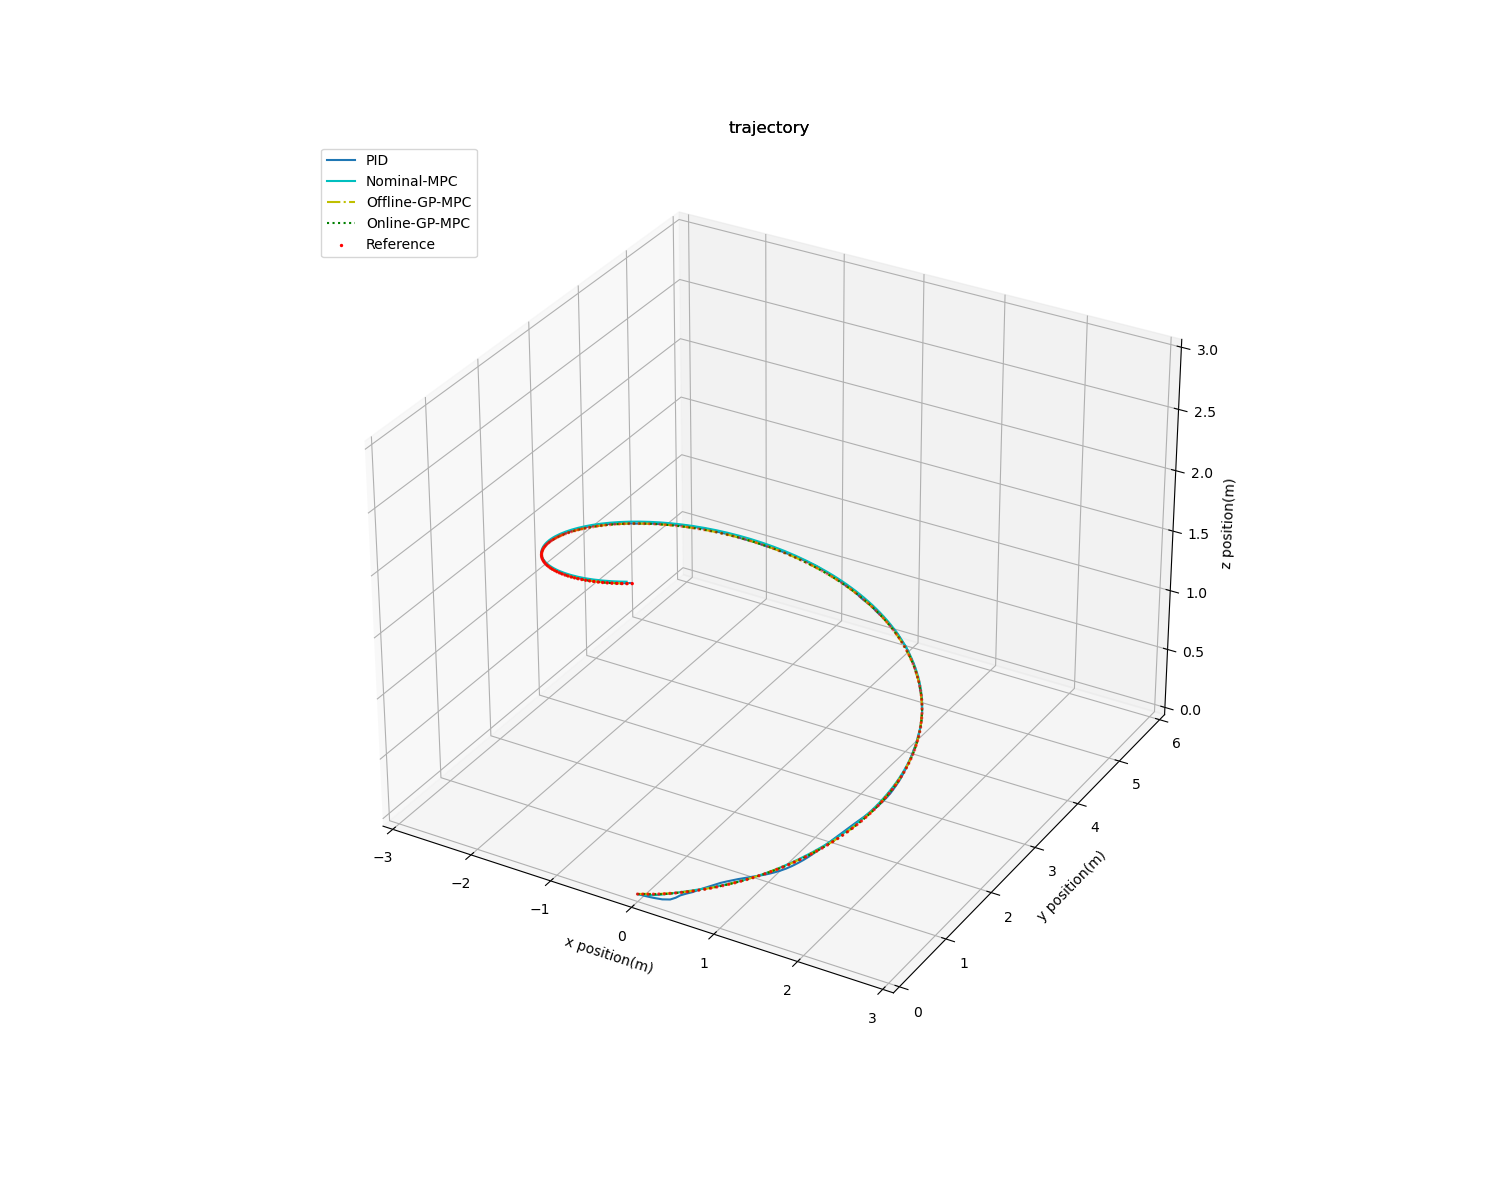
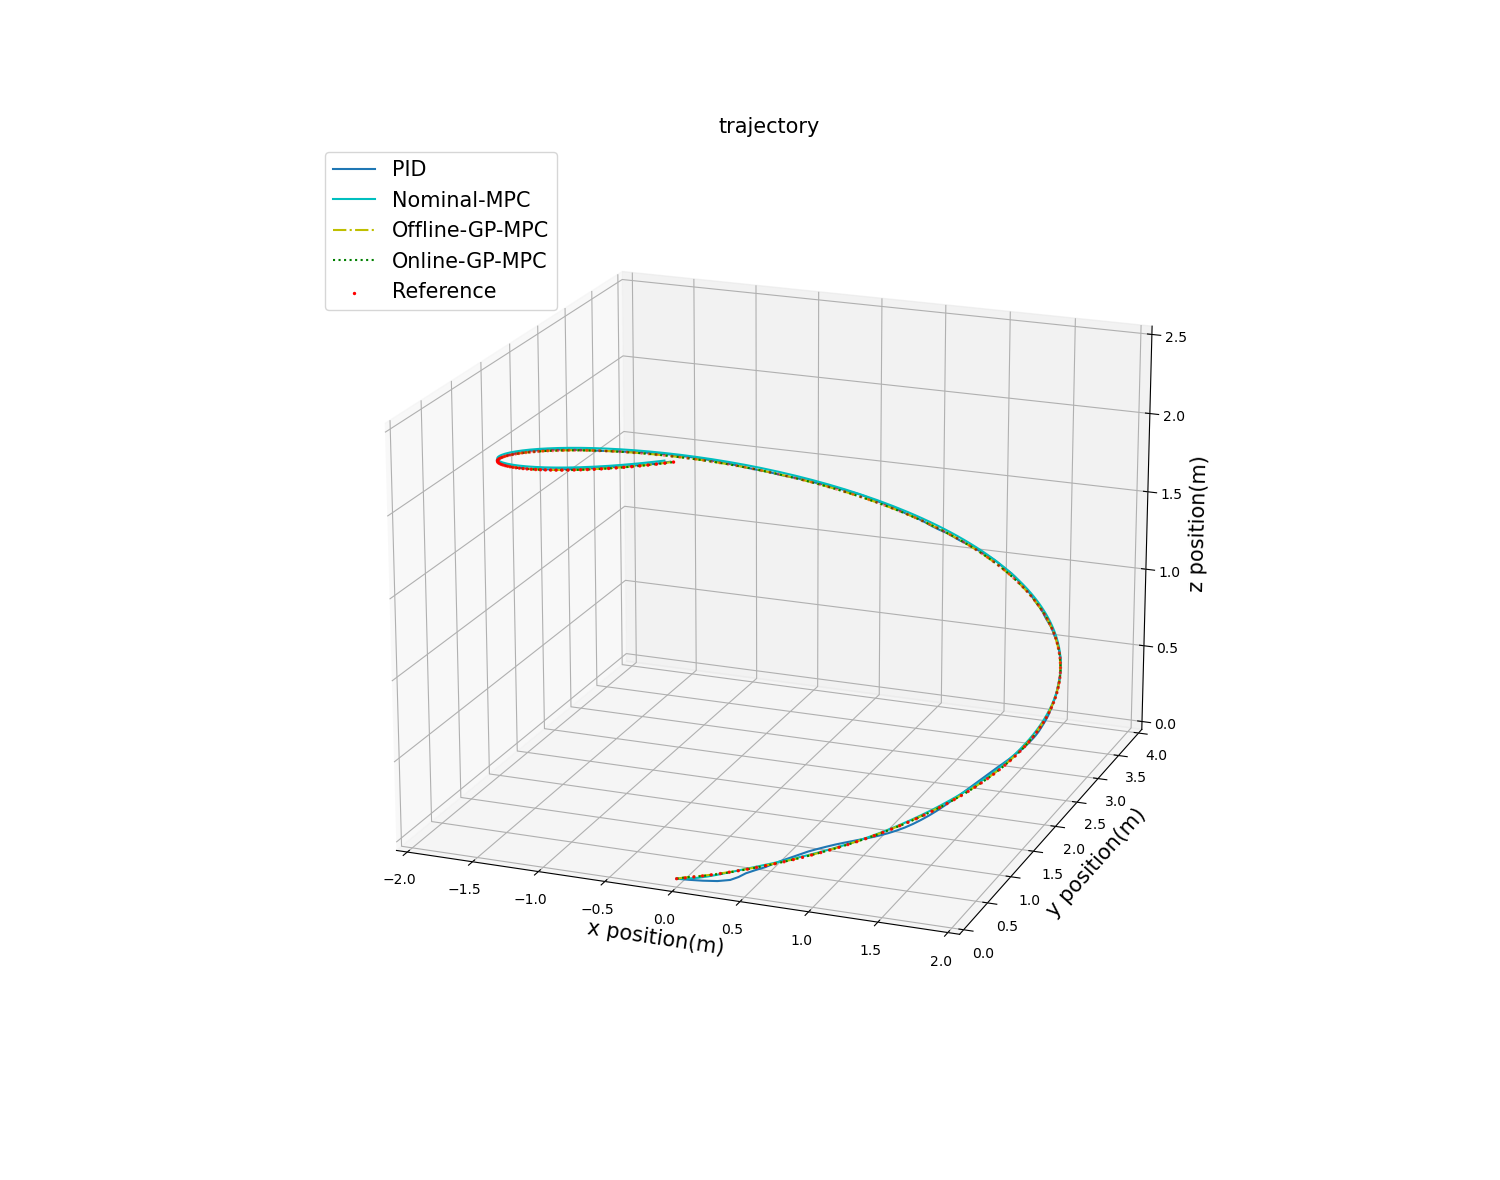
7.21

diff --git a/examples/figure_test_3.py b/examples/figure_test_3.py
@@ -4,13 +4,13 @@ import numpy as np
 # 导入数据
 # 拷贝用：data/lemniscate/Tv_dis_with_ero/   data/lemniscate/Tv_dis_No_ero/  data/lemniscate/No_dis_No_ero  data/lemniscate/Con_dis_No_ero  
 # data/L  data/circle/r=2/  data/circle/r=2.5/  data/circle/r=3/
-input_file = 'data/lemniscate/Tv_dis_with_ero/'
+input_file = 'data/circle/r=2/'
 all_data_PID = io.loadmat(input_file + 'PID.mat')
 all_data_Nominal = io.loadmat(input_file + 'Nominal.mat')
 all_data_OFF = io.loadmat(input_file + 'Offline-GP.mat')
 all_data_ON = io.loadmat(input_file + 'Online-GP.mat')
 
-input_file_2 = 'data/height/Tv_error/'
+input_file_2 = 'data/height/No_dis/0.25/'
 Z_data_PID = io.loadmat(input_file_2 + 'PID.mat')
 Z_data_Nominal = io.loadmat(input_file_2 + 'Nominal.mat')
 Z_data_OFF = io.loadmat(input_file_2 + 'Offline-GP.mat')
@@ -39,10 +39,9 @@ rmse_ON = all_data_ON['rmse']
 # print(u_PID[: , 0, 0])
 plt.figure('fig1', figsize=(15,15))
 plt.axis('off')
-plt.title("trajectory")
 # 参考轨迹
 # plt.plot(real_PID[:, 0], real_PID[:, 1], linestyle = '-', c='r', label = 'ref')
-
+fontsize = 15
 # 真实轨迹
 ax = plt.axes(projection='3d')
 ax.plot3D(real_PID[:, 0], real_PID[:, 1], realZ_PID[:, 0], linestyle = '-', label='PID')
@@ -50,12 +49,13 @@ ax.plot3D(real_Nominal[:, 0], real_Nominal[:, 1], realZ_Nominal[:, 0], c='c', li
 ax.plot3D(real_OFF[:, 0], real_OFF[:, 1], realZ_OFF[:, 0], c='y', linestyle = '-.', label = 'Offline-GP-MPC')
 ax.plot3D(real_ON[:, 0], real_ON[:, 1], realZ_ON[:, 0], c='g', linestyle = ':', label = 'Online-GP-MPC')
 ax.scatter3D(state_all_ref[:, 0], state_all_ref[:, 1], Z_ref[:, 0],s= 2, c='r', label = 'Reference')
-ax.set(xlim=[-2, 2], ylim=[-1.0, 1.0], zlim=[0, 5])
-ax.set_xlabel("x position(m)")
-ax.set_ylabel("y position(m)")
-ax.set_zlabel("z position(m)")
-ax.set_title("trajectory")
-plt.legend(loc='upper left')#绘制曲线图例，信息来自类型label
+ax.set(xlim=[-2, 2], ylim=[0, 4], zlim=[0, 2.5])
+ax.set_xlabel("x position(m)", fontsize=fontsize)
+ax.set_ylabel("y position(m)", fontsize=fontsize)
+ax.set_zlabel("z position(m)", fontsize=fontsize)
+ax.set_title("trajectory", fontsize=fontsize)
+ax.view_init(elev=19, azim=-69)
+plt.legend(loc='upper left', fontsize=fontsize)#绘制曲线图例，信息来自类型label
 # plt.zlabel("z position(m)")
 # plt.plot(real_PID[:, 0], real_PID[:, 1], linestyle = '-', label='PID')
 # plt.plot(real_Nominal[:, 0], real_Nominal[:, 1], c='c', linestyle = '-', label='Nominal-MPC')
@@ -69,32 +69,34 @@ plt.legend(loc='upper left')#绘制曲线图例，信息来自类型label
 # plt.scatter(state_all_ref[:, 0], state_all_ref[:, 1], 'r--')
 # 各状态对比
 y_label = ['x error(m)', 'y error(m)', 'yaw error(rad)']
-fig, ax = plt.subplots(4, 1, figsize=(18, 10)) 
+fig, ax = plt.subplots(4, 1, figsize=(25, 10)) 
 for i in range(3):
     plt.subplot(4, 1, i + 1)
     plt.xlim(0, 10.)
-    plt.xticks(np.arange(0., 10.1, 0.5))
-    plt.xlabel("time (s)")
-    plt.ylabel(y_label[i])
+    plt.xticks(np.arange(0., 10.1, 0.5), fontsize=fontsize)
+    plt.yticks(fontsize=fontsize)
+    plt.xlabel("time (s)", fontsize=fontsize)
+    plt.ylabel(y_label[i], fontsize=fontsize)
     # plt.plot(t[0], state_all_ref[:, i],linestyle = ':', c='r', label = 'ref')
-    plt.plot(t[0], real_PID[:, i] - state_all_ref[:, i], linestyle = ':', c='b', label='PID')
+    plt.plot(t[0], real_PID[:, i] - state_all_ref[:, i], linestyle = '-', c='k', label='PID')
     plt.plot(t[0], real_Nominal[:, i] - state_all_ref[:, i], linestyle = '--', c='c', label='Nominal-MPC')
     plt.plot(t[0], real_OFF[:, i]-  state_all_ref[:, i], c='r', linestyle = '-.', label='Offline-GP-MPC')
-    plt.plot(t[0], real_ON[:, i] - state_all_ref[:, i], c='k', linestyle = '-', label='Online-GP-MPC')
+    plt.plot(t[0], real_ON[:, i] - state_all_ref[:, i], c='b', linestyle = ':', label='Online-GP-MPC')
     # plt.legend(loc='upper left')#绘制曲线图例，信息来自类型label
 
 plt.subplot(4, 1, 4)
 i = 0
-plt.xlabel("time (s)")
-plt.ylabel('z error(m)')
+plt.xlabel("time (s)", fontsize=fontsize)
+plt.ylabel('z error(m)', fontsize=fontsize)
 plt.xlim(0, 10)
-plt.xticks(np.arange(0., 10.1, 0.5))
-plt.plot(t[0], realZ_PID[:, i] - Z_ref[:, i], linestyle = ':', c='b', label='PID')
+plt.xticks(np.arange(0., 10.1, 0.5), fontsize=fontsize)
+plt.yticks(fontsize=fontsize)
+plt.plot(t[0], realZ_PID[:, i] - Z_ref[:, i], linestyle = '-', c='k', label='PID')
 plt.plot(t[0], realZ_Nominal[:, i] - Z_ref[:, i], linestyle = '--', c='c', label='Nominal-MPC')
 plt.plot(t[0], realZ_OFF[:, i]-  Z_ref[:, i], c='r', linestyle = '-.', label='Offline-GP-MPC')
-plt.plot(t[0], realZ_ON[:, i] - Z_ref[:, i], c='k', linestyle = '-', label='Online-GP-MPC')
+plt.plot(t[0], realZ_ON[:, i] - Z_ref[:, i], c='b', linestyle = ':', label='Online-GP-MPC')
 
 lines, labels = fig.axes[-1].get_legend_handles_labels()
     
-fig.legend(lines, labels, loc = 'upper right')
+fig.legend(lines, labels, loc = 'upper right', fontsize=fontsize)
 plt.show()
